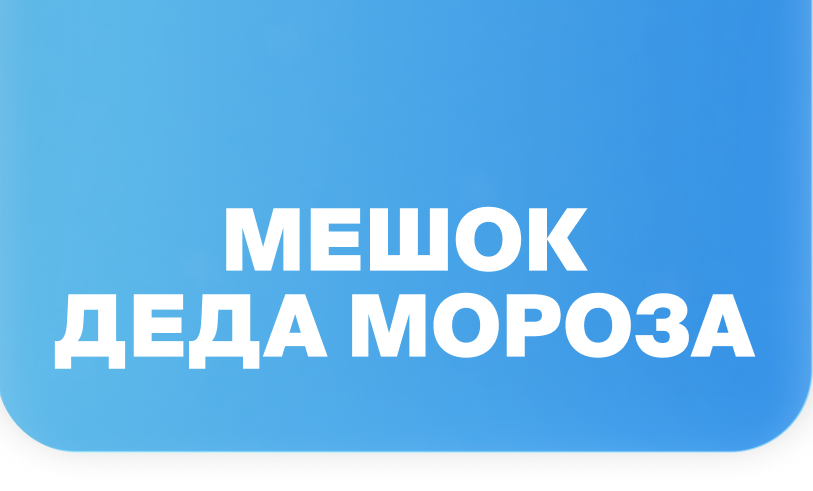
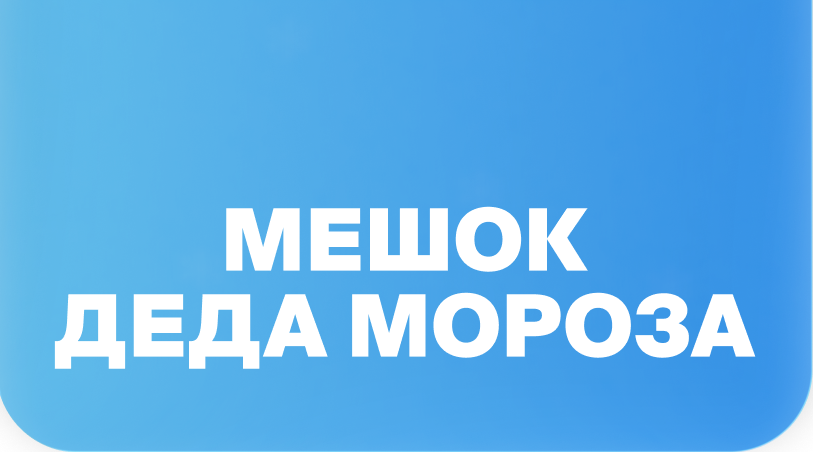
Fix header artifacts, update rule 6 card, set 40 pts per dish, add 3-stage bag fill states

Changed region(s): [[0.0615, 0.4027, 0.9225, 0.8363], [0.0, 0.7743, 1.0, 1.0]]

diff --git a/game.js b/game.js
@@ -214,7 +214,7 @@
         { src: 'assets/rules_card_3.webp', alt: 'Правило 3: Ловите перчик х2' },
         { src: 'assets/rules_card_4.webp', alt: 'Правило 4: Остерегайтесь препятствий' },
         { src: 'assets/rules_card_5.webp', alt: 'Правило 5: 1 сердце = 1 попытка' },
-        { src: 'assets/rules_card_6.webp', alt: 'Правило 6: Поймайте все блюда' }
+        { src: 'assets/rules_card_6.webp?v=5.1.0', alt: 'Правило 6: Поймайте все блюда' }
     ];
 
     // Предзагрузка всех карточек правил в кэш браузера (плавный переход без мерцания 1:1 как в Match 3)
@@ -336,6 +336,8 @@
         preloadAssets() {
             const list = {
                 basket: 'assets/player_basket.webp',
+                basket_half: 'assets/player_basket_half.webp?v=5.1.0',
+                basket_full: 'assets/player_basket_full.webp?v=5.1.0',
                 ramen: 'assets/food_ramen.webp',
                 dango: 'assets/food_dango.webp',
                 salmon: 'assets/food_salmon.webp',
@@ -582,12 +584,12 @@
                 this.itemsSinceLastIcicle = 0;
                 this.nextIcicleThreshold = 3 + Math.floor(Math.random() * 3); // 3, 4 или 5 предметов (на 15% чаще)
             } else if (isSanta) {
-                // Редкий падающий Дед Мороз (+50% баллов = 38 вместо 25)
+                // Редкий падающий Дед Мороз (+50% баллов = 60 вместо 40)
                 type = 'bonus';
                 subType = 'santa';
                 width = 86;
                 height = 56;
-                scoreVal = 38;
+                scoreVal = 60;
                 this.santaSpawnsCount++;
             } else {
                 // Шанс на бонус перчик x2 (около 7%)
@@ -599,16 +601,16 @@
                     height = 54;
                 } else {
                     type = 'food';
-                    // Крупные, сочные блюда по референсу (dango ~80px, ramen ~74px и т.д.)
+                    // Крупные, сочные блюда по референсу (1 пойманное блюдо = 40 баллов)
                     const foodTypes = [
-                        { key: 'ramen', w: 74, h: 74, score: 25 },
-                        { key: 'dango', w: 80, h: 65, score: 25 },
-                        { key: 'dimsum', w: 75, h: 67, score: 25 },
-                        { key: 'dimsum_flower', w: 76, h: 68, score: 25 },
-                        { key: 'salmon', w: 72, h: 64, score: 25 },
-                        { key: 'icecream', w: 64, h: 72, score: 25 },
-                        { key: 'bao', w: 76, h: 62, score: 25 },
-                        { key: 'onigiri', w: 74, h: 66, score: 25 }
+                        { key: 'ramen', w: 74, h: 74, score: 40 },
+                        { key: 'dango', w: 80, h: 65, score: 40 },
+                        { key: 'dimsum', w: 75, h: 67, score: 40 },
+                        { key: 'dimsum_flower', w: 76, h: 68, score: 40 },
+                        { key: 'salmon', w: 72, h: 64, score: 40 },
+                        { key: 'icecream', w: 64, h: 72, score: 40 },
+                        { key: 'bao', w: 76, h: 62, score: 40 },
+                        { key: 'onigiri', w: 74, h: 66, score: 40 }
                     ];
                     const chosen = foodTypes[Math.floor(Math.random() * foodTypes.length)];
                     subType = chosen.key;
@@ -865,9 +867,21 @@
                 this.ctx.globalAlpha = Math.floor(Date.now() / 80) % 2 === 0 ? 0.35 : 0.9;
             }
 
-            const basketImg = this.images.basket;
+            // Выбор стейта мешка в зависимости от набранных баллов (до 1/3 пустой, до 2/3 полузаполненный, далее полный)
+            let basketImg = this.images.basket;
+            if (this.score >= (this.maxScore * 2) / 3 && this.images.basket_full && this.images.basket_full.complete) {
+                basketImg = this.images.basket_full;
+            } else if (this.score >= this.maxScore / 3 && this.images.basket_half && this.images.basket_half.complete) {
+                basketImg = this.images.basket_half;
+            }
+
             if (basketImg && basketImg.complete) {
-                this.ctx.drawImage(basketImg, -this.player.width / 2, -this.player.height / 2, this.player.width, this.player.height);
+                const drawW = this.player.width;
+                const drawH = (basketImg.naturalWidth > 0)
+                    ? (basketImg.naturalHeight / basketImg.naturalWidth) * drawW
+                    : this.player.height;
+                const drawY = (this.player.height / 2) - drawH;
+                this.ctx.drawImage(basketImg, -drawW / 2, drawY, drawW, drawH);
             } else {
                 this.ctx.fillStyle = '#D62828';
                 this.ctx.fillRect(-this.player.width / 2, -this.player.height / 2, this.player.width, this.player.height);

diff --git a/index.html b/index.html
@@ -46,10 +46,10 @@
             window.addEventListener('load', updateAppHeight);
         })();
     </script>
-    <link rel="stylesheet" href="style.css?v=5.0.0">
-    <link rel="preload" as="image" href="assets/header_rules.png?v=5.0.0">
-    <link rel="preload" as="image" href="assets/header_result.png?v=5.0.0">
-    <link rel="preload" as="image" href="assets/header_exit.png?v=5.0.0">
+    <link rel="stylesheet" href="style.css?v=5.1.0">
+    <link rel="preload" as="image" href="assets/header_rules.png?v=5.1.0">
+    <link rel="preload" as="image" href="assets/header_result.png?v=5.1.0">
+    <link rel="preload" as="image" href="assets/header_exit.png?v=5.1.0">
     <link rel="preconnect" href="https://fonts.googleapis.com" crossorigin>
     <link rel="preconnect" href="https://fonts.gstatic.com" crossorigin>
     <link rel="stylesheet" href="https://fonts.googleapis.com/css2?family=Cormorant+Garamond:wght@600;700&family=Oranienbaum&family=Rubik:ital,wght@0,400;0,500;0,600;0,700;0,800;0,900;1,700;1,900&display=swap" media="print" onload="this.media='all'">
@@ -133,7 +133,7 @@
         <!-- SCREEN 2: Rules Slider Screen (6 правил) -->
         <div id="rulesScreen" class="rules-screen-container hidden">
             <div class="rules-top-box">
-                <img src="assets/header_rules.png?v=5.0.0" class="rules-ribbon-banner" alt="Мешок Деда Мороза">
+                <img src="assets/header_rules.png?v=5.1.0" class="rules-ribbon-banner" alt="Мешок Деда Мороза">
             </div>
             <div class="rules-card-container">
                 <div id="rulesCardSlot" class="rules-card-slot"></div>
@@ -176,7 +176,7 @@
         <div id="resultScreen" class="result-screen-container hidden">
             <!-- Верхняя лента "УРОВЕНЬ: ЧЕМПИОН" -->
             <div class="result-top-box">
-                <img src="assets/header_result.png?v=5.0.0" class="result-ribbon-banner" alt="Уровень: Чемпион">
+                <img src="assets/header_result.png?v=5.1.0" class="result-ribbon-banner" alt="Уровень: Чемпион">
             </div>
 
             <!-- Центральная плашка с блюдами и динамическими баллами -->
@@ -241,6 +241,6 @@
         </div>
     </div>
 
-    <script src="game.js?v=5.0.0"></script>
+    <script src="game.js?v=5.1.0"></script>
 </body>
 </html>

diff --git a/style.css b/style.css
@@ -437,9 +437,7 @@ html, body {
     z-index: 6;
     flex-shrink: 0;
     pointer-events: none;
-    overflow: hidden;
-    border-radius: 0 0 36px 36px;
-    box-shadow: 0 6px 18px rgba(10, 45, 90, 0.14);
+    overflow: visible;
 }
 
 .cover-ribbon-banner {
@@ -451,6 +449,7 @@ html, body {
     display: block;
     flex-shrink: 0;
     pointer-events: none;
+    filter: drop-shadow(0 6px 16px rgba(10, 45, 90, 0.16));
 }
 
 .cover-santa-wrapper {
@@ -647,9 +646,7 @@ html, body {
     z-index: 11;
     flex-shrink: 0;
     pointer-events: none;
-    overflow: hidden;
-    border-radius: 0 0 36px 36px;
-    box-shadow: 0 6px 18px rgba(10, 45, 90, 0.14);
+    overflow: visible;
 }
 
 .rules-ribbon-banner {
@@ -661,6 +658,7 @@ html, body {
     display: block;
     flex-shrink: 0;
     pointer-events: none;
+    filter: drop-shadow(0 6px 16px rgba(10, 45, 90, 0.16));
 }
 
 .rules-card-container {
@@ -809,9 +807,7 @@ html, body {
     flex-shrink: 0;
     pointer-events: none;
     z-index: 12;
-    overflow: hidden;
-    border-radius: 0 0 36px 36px;
-    box-shadow: 0 6px 18px rgba(10, 45, 90, 0.14);
+    overflow: visible;
 }
 
 .result-ribbon-banner {
@@ -821,6 +817,7 @@ html, body {
     object-fit: cover;
     object-position: center bottom;
     display: block;
+    filter: drop-shadow(0 6px 16px rgba(10, 45, 90, 0.16));
 }
 
 /* Центральная плашка */
@@ -986,9 +983,7 @@ html, body {
     padding-top: 0;
     z-index: 10;
     pointer-events: none;
-    overflow: hidden;
-    border-radius: 0 0 36px 36px;
-    box-shadow: 0 6px 18px rgba(10, 45, 90, 0.14);
+    overflow: visible;
 }
 
 .exit-ribbon-banner {
@@ -998,6 +993,7 @@ html, body {
     object-fit: cover;
     object-position: center bottom;
     display: block;
+    filter: drop-shadow(0 6px 16px rgba(10, 45, 90, 0.16));
 }
 
 .exit-santa-wrapper {
